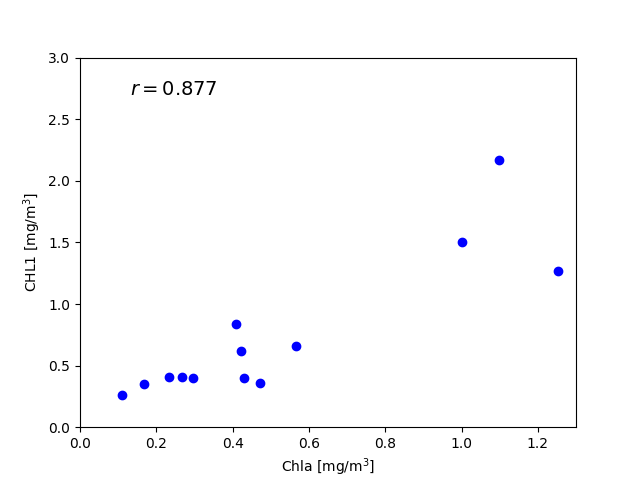
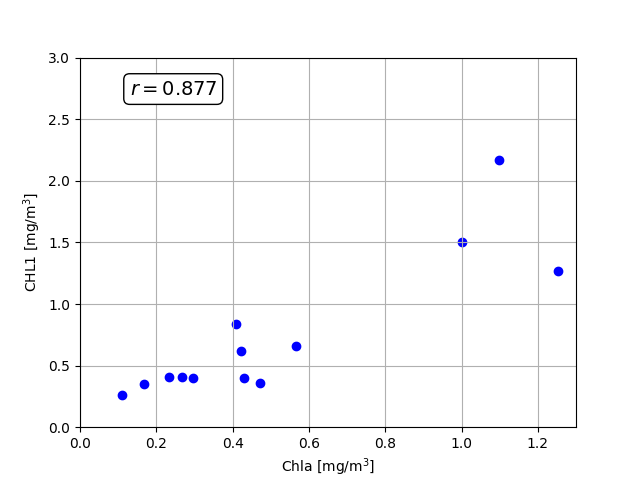
added box around text in correlation plots

diff --git a/assignment10/correlate.py b/assignment10/correlate.py
@@ -15,20 +15,21 @@ ax.set_xlabel(r"Chla [mg/m$^3$]")
 ax.set_ylabel(r"CHL1 [mg/m$^3$]")
 ax.set_xlim(0,1.3)
 ax.set_ylim(0,12.5)
-ax.annotate(fr"$r = {r}$", xy=(0.1,0.9),xycoords='axes fraction', fontsize=14)
+ax.annotate(fr"$r = {r}$", xy=(0.1,0.9),xycoords='axes fraction', fontsize=14,bbox=dict(facecolor='white', edgecolor='black', boxstyle='round,pad=0.3'))
+ax.grid()
 fig.savefig("correlation-plot.png")
 
 #plot without outlier (station 12)
 df = pd.read_csv("./correlation-data-no-outlier.csv", delim_whitespace=True)
 r = np.around(pearsonr(df["Chla_[mg/m3]_ref"], df["CHL1_mean_mean"])[0],3)
-print(r)
 fig, ax = plt.subplots()
 #ax.grid()
 ax.scatter(df["Chla_[mg/m3]_ref"], df["CHL1_mean_mean"], color='blue')
 ax.set_xlabel(r"Chla [mg/m$^3$]")
 ax.set_ylabel(r"CHL1 [mg/m$^3$]")
 ax.set_xlim(0,1.3)
+ax.grid()
 ax.set_ylim(0,3)
 
-ax.annotate(fr"$r = {r}$", xy=(0.1,0.9),xycoords='axes fraction', fontsize=14)
+ax.annotate(fr"$r = {r}$", xy=(0.1,0.9),xycoords='axes fraction', fontsize=14, bbox=dict(facecolor='white', edgecolor='black', boxstyle='round,pad=0.3'))
 fig.savefig("correlation-plot-no-outlier.png")
